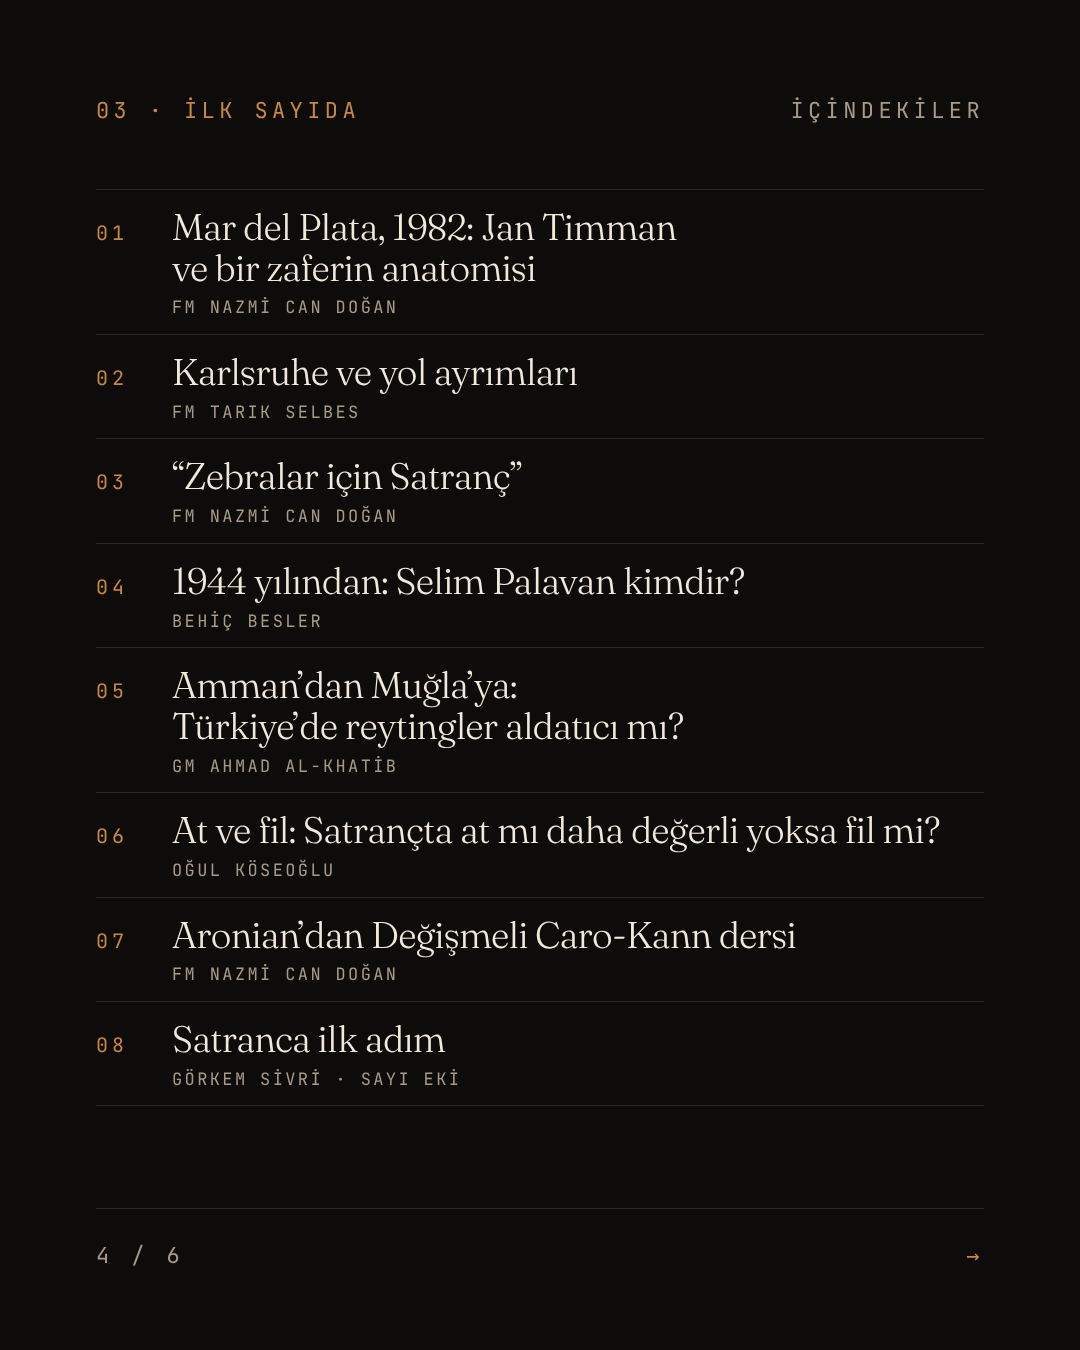
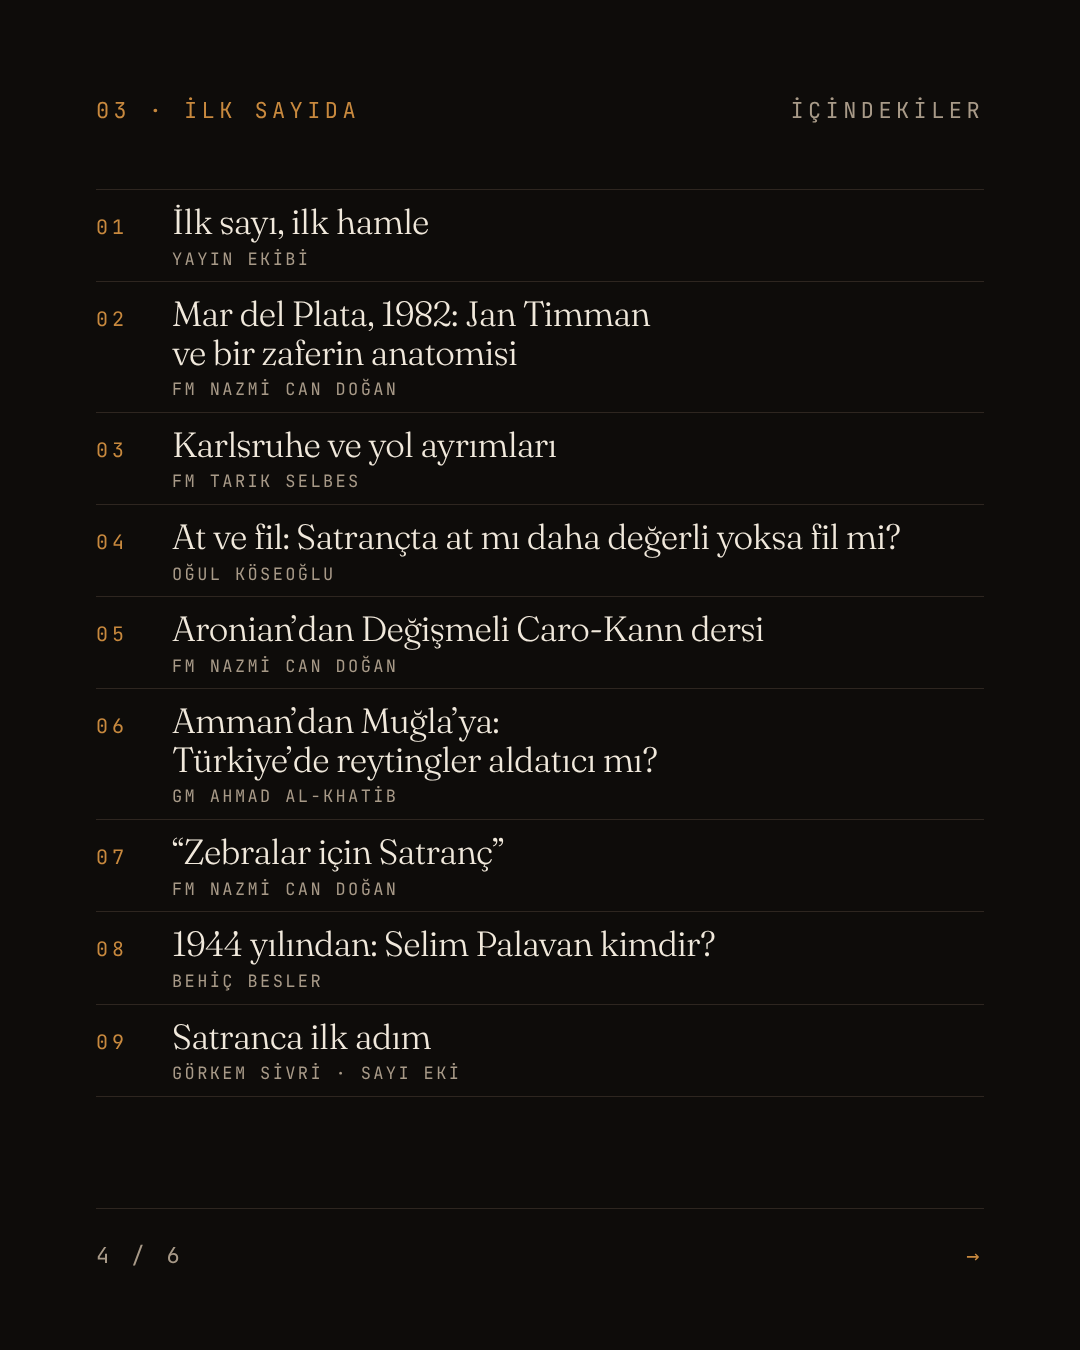
Instagram tanıtım karuseli: içindekiler kartı güncel liste sırasına göre (9 yazı)
Claude-Session: https://claude.ai/code/session_01RDmroYZjN7Q39KbnndkfPU

diff --git a/social/instagram/01-tanitim/slides.html b/social/instagram/01-tanitim/slides.html
@@ -37,11 +37,11 @@ body { background:#000; display:flex; flex-direction:column; gap:40px; align-ite
 
 /* 4 içindekiler */
 .toc { list-style:none; margin-top:44px; }
-.toc li { display:flex; gap:28px; border-top:1px solid var(--line); padding:17px 0; align-items:baseline; }
+.toc li { display:flex; gap:28px; border-top:1px solid var(--line); padding:13px 0; align-items:baseline; }
 .toc li:last-child { border-bottom:1px solid var(--line); }
 .toc .n { font-family:'JetBrains Mono',monospace; font-size:20px; letter-spacing:.2em; color:var(--accent); width:48px; flex:none; }
-.toc .t { font-family:'Fraunces',serif; font-weight:300; font-size:37px; letter-spacing:-.02em; line-height:1.1; text-wrap:balance; }
-.toc .t small { display:block; font-family:'JetBrains Mono',monospace; font-size:17px; letter-spacing:.14em; text-transform:uppercase; color:var(--mute); margin-top:10px; font-weight:400; }
+.toc .t { font-family:'Fraunces',serif; font-weight:300; font-size:35px; letter-spacing:-.02em; line-height:1.1; text-wrap:balance; }
+.toc .t small { display:block; font-family:'JetBrains Mono',monospace; font-size:17px; letter-spacing:.14em; text-transform:uppercase; color:var(--mute); margin-top:8px; font-weight:400; }
 
 /* 5-6 */
 .big { font-size:164px; }
@@ -99,14 +99,15 @@ body { background:#000; display:flex; flex-direction:column; gap:40px; align-ite
   <div class="top"><span class="mono accent">03 · İlk sayıda</span><span class="mono mute">İçindekiler</span></div>
   <div class="body" style="justify-content:flex-start;padding-top:20px;padding-bottom:150px">
     <ol class="toc">
-      <li><span class="n">01</span><span class="t">Mar del Plata, 1982: Jan Timman ve bir zaferin anatomisi<small>FM Nazmi Can Doğan</small></span></li>
-      <li><span class="n">02</span><span class="t">Karlsruhe ve yol ayrımları<small>FM Tarık Selbes</small></span></li>
-      <li><span class="n">03</span><span class="t">“Zebralar için Satranç”<small>FM Nazmi Can Doğan</small></span></li>
-      <li><span class="n">04</span><span class="t">1944 yılından: Selim Palavan kimdir?<small>Behiç Besler</small></span></li>
-      <li><span class="n">05</span><span class="t">Amman’dan Muğla’ya: Türkiye’de reytingler aldatıcı mı?<small>GM Ahmad Al-Khatib</small></span></li>
-      <li><span class="n">06</span><span class="t">At ve fil: Satrançta at mı daha değerli yoksa fil mi?<small>Oğul Köseoğlu</small></span></li>
-      <li><span class="n">07</span><span class="t">Aronian’dan Değişmeli Caro-Kann dersi<small>FM Nazmi Can Doğan</small></span></li>
-      <li><span class="n">08</span><span class="t">Satranca ilk adım<small>Görkem Sivri · Sayı eki</small></span></li>
+      <li><span class="n">01</span><span class="t">İlk sayı, ilk hamle<small>Yayın ekibi</small></span></li>
+      <li><span class="n">02</span><span class="t">Mar del Plata, 1982: Jan Timman ve bir zaferin anatomisi<small>FM Nazmi Can Doğan</small></span></li>
+      <li><span class="n">03</span><span class="t">Karlsruhe ve yol ayrımları<small>FM Tarık Selbes</small></span></li>
+      <li><span class="n">04</span><span class="t">At ve fil: Satrançta at mı daha değerli yoksa fil mi?<small>Oğul Köseoğlu</small></span></li>
+      <li><span class="n">05</span><span class="t">Aronian’dan Değişmeli Caro-Kann dersi<small>FM Nazmi Can Doğan</small></span></li>
+      <li><span class="n">06</span><span class="t">Amman’dan Muğla’ya: Türkiye’de reytingler aldatıcı mı?<small>GM Ahmad Al-Khatib</small></span></li>
+      <li><span class="n">07</span><span class="t">“Zebralar için Satranç”<small>FM Nazmi Can Doğan</small></span></li>
+      <li><span class="n">08</span><span class="t">1944 yılından: Selim Palavan kimdir?<small>Behiç Besler</small></span></li>
+      <li><span class="n">09</span><span class="t">Satranca ilk adım<small>Görkem Sivri · Sayı eki</small></span></li>
     </ol>
   </div>
   <div class="foot"><span class="mono mute">4 / 6</span><span class="mono accent">→</span></div>
